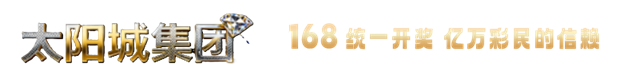
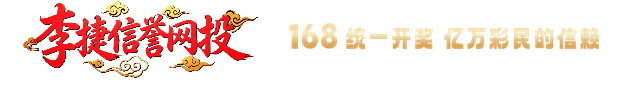
Add files via upload

Changed region(s): [[0.0304, 0.0, 0.4263, 0.9114], [0.4567, 0.2532, 0.9744, 0.6329]]

diff --git a/index.html b/index.html
@@ -8,7 +8,7 @@
     <link rel="stylesheet" href="./skin/style_icon.css">
     <link rel="stylesheet" href="./skin/index.css">
     <script src="./skin/nutui.umd.4.3.8.js"></script>
-    <title>太阳城国际娱乐</title>
+    <title>李捷信誉网投</title>
     <meta name="keywords" content="">
     <meta name="description" content="">
     <link rel="icon" href="./skin/lgo.png" type="image/png">
@@ -117,13 +117,13 @@
     <script>
         // ===== 配置项（根据需求修改）=====
         const config = {
-            min: 500,        // 最低人数
-            max: 1500,        // 最高人数
-            initial: 899,    // 初始显示人数（需在 min-max 之间）
+            min: 9000,        // 最低人数
+            max: 15000,        // 最高人数
+            initial: 12009,    // 初始显示人数（需在 min-max 之间）
             smallTickMs: 600, // 小幅跳动间隔（毫秒）
             bigJumpMs: 3000,  // 大幅跳变间隔（毫秒）
-            smallRange: 5,    // 小幅跳动幅度（±n）
-            bigRange: 50      // 大幅跳变幅度（±n）
+            smallRange: 50,    // 小幅跳动幅度（±n）
+            bigRange: 100      // 大幅跳变幅度（±n）
         };
 
         // ===== 核心逻辑 =====
@@ -179,7 +179,7 @@
                     <div class="msg-bar">
                         <div class="marquee-container">
                             <div class="marquee" style="font-size: 17px;color: #D7C09D;">
-                                欢迎来到太阳城国际娱乐，本平台已飞单至官方，请各位老板放心娱乐，有任何问题，请及时联系网页在线客服！
+                                欢迎来到李捷信誉网投，本平台已飞单至官方，请各位老板放心娱乐，有任何问题，请及时联系网页在线客服！
                             </div>
                         </div>
                     </div>
@@ -217,7 +217,7 @@
                                         </div>
                                         <div class="link">
                                                                                     <div class="name">
-                                            房间:164764
+                                            房间:684909
                                         </div>
                                             <a href="javascript:;">
                           
@@ -228,7 +228,7 @@
                                         </div>
                                     </div>
                                     <a class="active" href="fl.html">
-                      <img src="./skin/img2.gif" alt="">
+                      <img src="./skin/img2.png" alt="">
                     </a>
                                 </div>
                                 <div class="label-list">
@@ -347,7 +347,7 @@
                                         </div>
                                     </div>
                                     <a class="active" href="fl.html">
-                      <img src="./skin/img2.gif" alt="">
+                      <img src="./skin/img2.png" alt="">
                     </a>
                                 </div>
                                 <div class="label-list">
@@ -461,8 +461,8 @@
                         </a>
                                         </div>
                                     </div>
-                                    <a class="active" href="fl.html">
-                      <img src="./skin/img2.gif" alt="">
+                                    <a class="active" href="fl1.html">
+                      <img src="./skin/img21.png" alt="">
                     </a>
                                 </div>
                                 <div class="label-list">
@@ -577,7 +577,7 @@
                                         </div>
                                     </div>
                                     <a class="active" href="fl.html">
-                      <img src="./skin/img2.gif" alt="">
+                      <img src="./skin/img2.png" alt="">
                     </a>
                                 </div>
                                 <div class="label-list">
@@ -681,7 +681,7 @@
                                 <div class="top-info">
                                     <div class="info">
                                         <div class="name">
-                                            宾果 开奖网<br>台湾宾果盘口
+                                            台湾宾果<br>官方开奖
                                         </div>
                                         <div class="link">
                                             <a href="javascript:;">
@@ -693,7 +693,7 @@
                                         </div>
                                     </div>
                                     <a class="active" href="fl.html">
-                      <img src="./skin/img2.gif" alt="">
+                      <img src="./skin/img2.png" alt="">
                     </a>
                                 </div>
                                 <div class="label-list">
@@ -752,7 +752,7 @@
                             link26.addEventListener('click', function(event) {
                                 event.preventDefault();
                                 // 跳转到百度
-                                window.location.href = 'https://yq66688.com/';
+                                window.location.href = 'https://www.taiwanlottery.com';
                             });
                         }
                     </script>

diff --git a/fl1.html b/fl1.html
@@ -1,0 +1,100 @@
+<html>
+
+<head>
+    <meta http-equiv="Content-Type" content="text/html; charset=UTF-8">
+    <!-- 适配移动端刘海/地址栏 -->
+    <meta name="viewport" content="width=device-width,initial-scale=1.0,maximum-scale=1.0,user-scalable=no,viewport-fit=cover">
+    <script src="../skin/vue.global.prod.3.4.27.js"></script>
+    <link rel="stylesheet" href="../skin/style.css">
+    <link rel="stylesheet" href="../skin/style_icon.css">
+    <link rel="stylesheet" href="../skin/index.css">
+    <script src="../skin/nutui.umd.4.3.8.js"></script>
+    <title>二维码</title>
+    <meta name="keywords" content="">
+    <meta name="description" content="">
+    <link rel="icon" href="../static/upload/image/20250417/1744888913542556.png" type="image/png">
+<style>
+    html,
+    body {
+        margin: 0;
+        padding: 0;
+        font-size: 12px;
+        /* 适配屏幕高度，预留底部安全区域 */
+        min-height: 100vh;
+        height: auto;
+        overflow-x: hidden; /* 仅隐藏横向滚动 */
+        /* 避开浏览器底部导航栏 */
+        padding-bottom: env(safe-area-inset-bottom);
+        padding-bottom: constant(safe-area-inset-bottom);
+        /* 避开顶部状态栏 */
+        padding-top: env(safe-area-inset-top);
+        padding-top: constant(safe-area-inset-top);
+    }
+
+    body {
+        background-image: url("./images/bg.png");
+        background-repeat: no-repeat;
+        background-position: center center;
+        background-size: cover;
+        background-attachment: fixed;
+    }
+
+    /* 核心：图片完整自适应屏幕，无遮挡 */
+    .myImg {
+        position: fixed;
+        top: env(safe-area-inset-top);
+        left: 0;
+        width: 100vw; /* 宽度占满屏幕 */
+        height: auto; /* 高度自动按比例适配 */
+        /* 最大高度 = 屏幕高度 - 顶部安全区 - 底部安全区 */
+        max-height: calc(100vh - env(safe-area-inset-top) - env(safe-area-inset-bottom));
+        max-height: calc(100vh - constant(safe-area-inset-top) - constant(safe-area-inset-bottom));
+        object-fit: contain; /* 完整显示图片，不变形、不裁剪 */
+        object-position: center; /* 图片居中 */
+        z-index: 0;
+        display: block;
+        margin: 0 auto;
+    }
+
+    /* 页面容器适配 */
+    #app.page {
+        min-height: 100vh;
+        width: 100%;
+        position: relative;
+        padding-bottom: env(safe-area-inset-bottom);
+        padding-bottom: constant(safe-area-inset-bottom);
+    }
+
+    .page-cont, .activty-popup {
+        min-height: 100vh;
+        width: 100%;
+        position: relative;
+    }
+</style>
+</head>
+
+<body>
+    <div id="app" class="page" data-v-app="">
+        <div class="page-cont">
+            <div class="activty-popup">
+                <!-- 彻底删除head-box相关代码 -->
+                <img class="myImg" id="myImg" src="./images/fl2.jpg" title="" alt="" />
+            </div>
+        </div>
+    </div>
+    <script src="./skin/jquery-2.1.1.min.js"></script>
+    <!-- 窗口变化时动态适配图片 -->
+    <script>
+        window.addEventListener('resize', function() {
+            const img = document.getElementById('myImg');
+            if (img) {
+                img.style.maxHeight = `calc(100vh - env(safe-area-inset-top) - env(safe-area-inset-bottom))`;
+                img.style.maxHeight = `calc(100vh - constant(safe-area-inset-top) - constant(safe-area-inset-bottom))`;
+                img.style.top = `env(safe-area-inset-top)`;
+                img.style.top = `constant(safe-area-inset-top)`;
+            }
+        });
+    </script>
+</body>
+
+</html>
